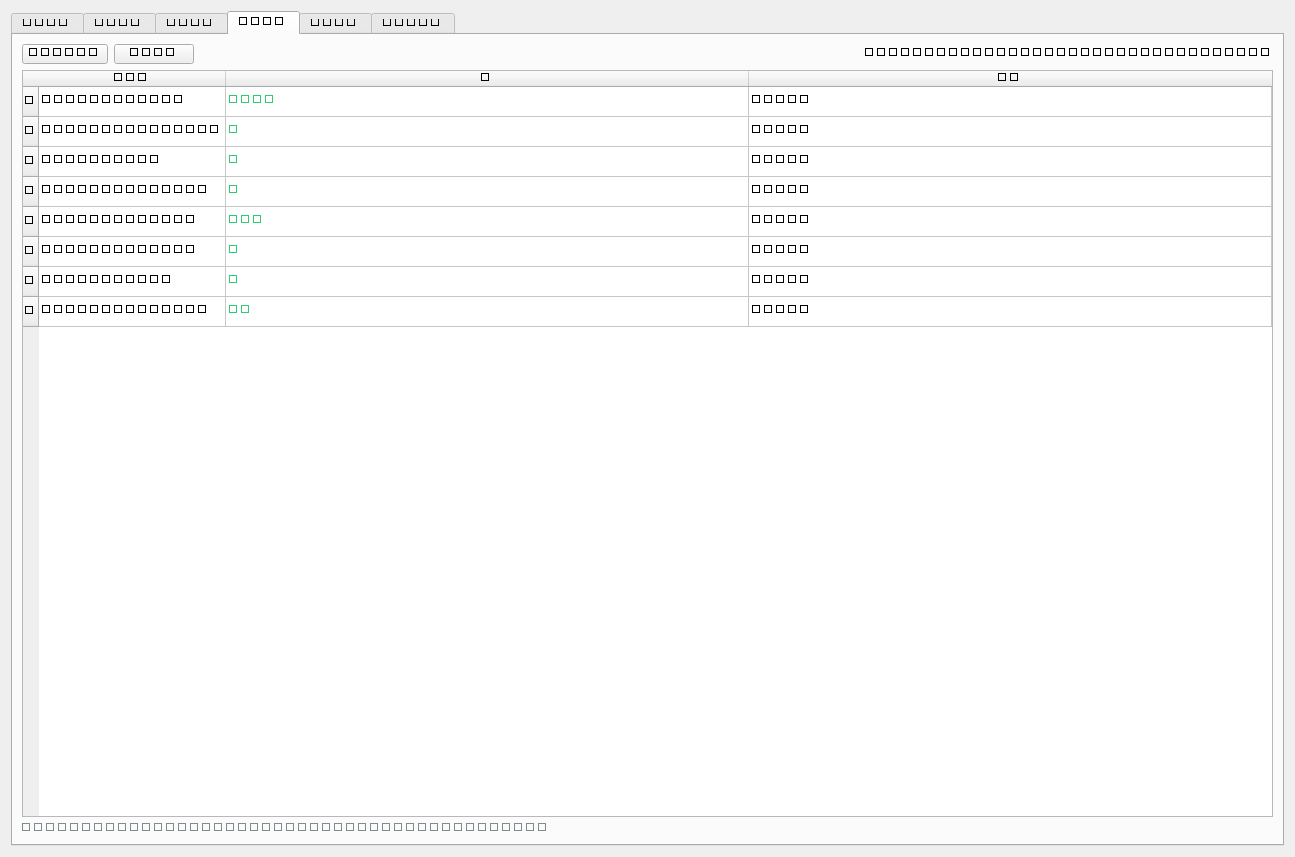
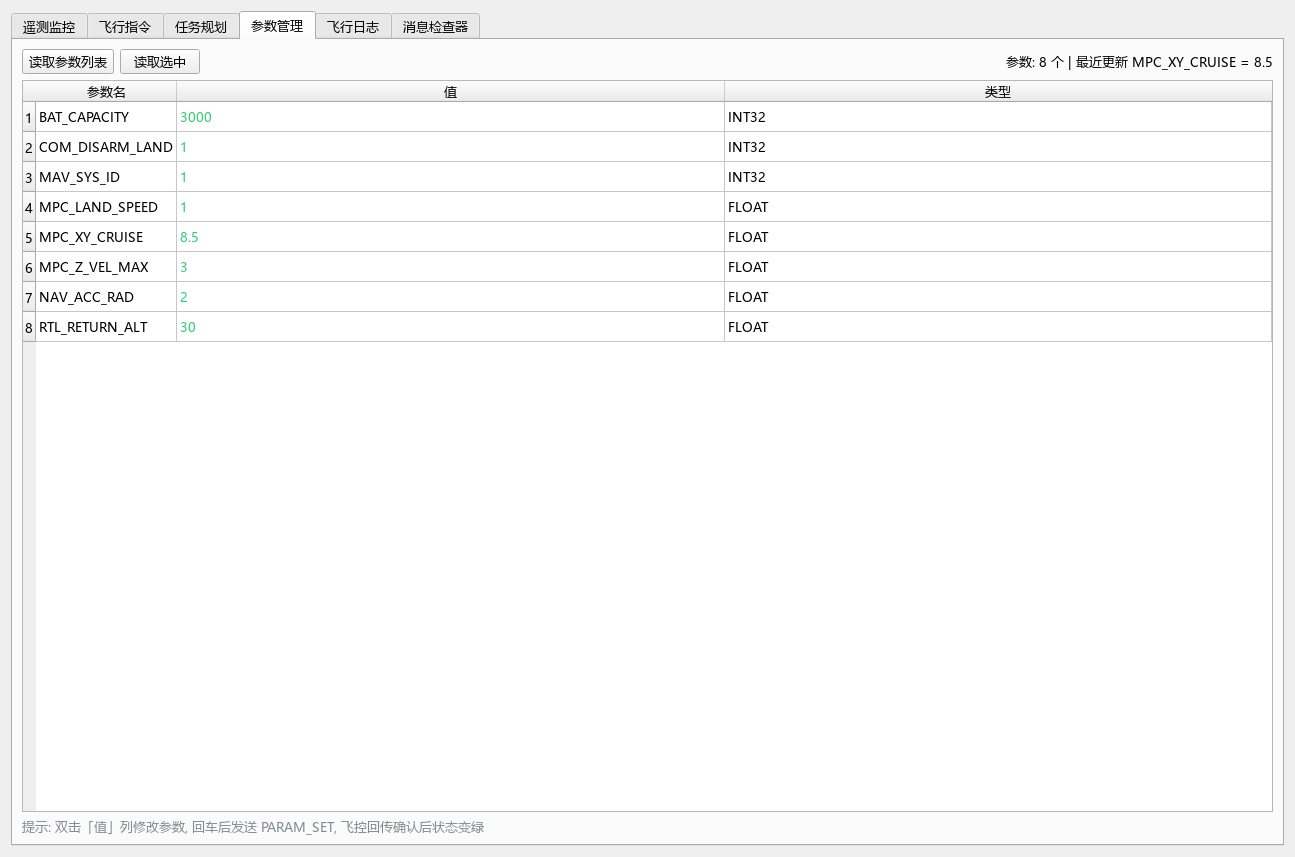
fix(screenshot): 离屏渲染显式加载中文字体(微软雅黑), 修复截图中文乱码/方块
- offscreen 平台无默认字体数据库 -> 中文渲染为方块
- shot_main 加载 C:/Windows/Fonts/msyh.ttc 并设为应用默认字体
- 支持一次运行输出 4 张截图(初始/参数/任务/遥测), 仿真延迟 2s 启动
- 重新生成 docs/screenshot_{main,live,mission,params}.png (文字全部可读)

Changed region(s): [[0.0, 0.0, 0.9884, 0.3944], [0.0, 0.9405, 0.4324, 0.9708]]

diff --git a/tests/shot_main.cpp b/tests/shot_main.cpp
@@ -2,8 +2,11 @@
 // SkyGCS  UI 离屏渲染截图工具 (验证/文档用)
 // 启动主窗口 → 程序化启动内置仿真 (UDP 模式) → 等待遥测 → grab 保存 PNG
 // 运行: build 目录 ./shot_main.exe [输出路径]
+// 注意: offscreen 平台无默认字体数据库, 需显式加载系统中文字体
 // ============================================================================
 #include <QApplication>
+#include <QFont>
+#include <QFontDatabase>
 #include <QPixmap>
 #include <QSplitter>
 #include <QTabWidget>
@@ -24,9 +27,33 @@
 
 using namespace skygcs;
 
+static void loadChineseFont(QApplication& app)
+{
+    // offscreen 平台不加载系统字体 → 中文会渲染为方块, 显式注册
+    const QStringList candidates = {
+        QStringLiteral("C:/Windows/Fonts/msyh.ttc"),   // 微软雅黑
+        QStringLiteral("C:/Windows/Fonts/simhei.ttf"), // 黑体
+        QStringLiteral("C:/Windows/Fonts/simsun.ttc"), // 宋体
+    };
+    QString family;
+    for (const QString& path : candidates) {
+        const int id = QFontDatabase::addApplicationFont(path);
+        if (id >= 0) {
+            family = QFontDatabase::applicationFontFamilies(id).value(0);
+            if (!family.isEmpty())
+                break;
+        }
+    }
+    QFont font(family.isEmpty() ? QStringLiteral("Microsoft YaHei") : family);
+    font.setPixelSize(13);
+    app.setFont(font);
+    std::printf("[font] %s\n", qPrintable(family));
+}
+
 int main(int argc, char* argv[])
 {
     QApplication app(argc, argv);
+    loadChineseFont(app);
 
     auto* endpoint = new MavlinkEndpoint;
     auto* sim = new FlightSim;
@@ -42,7 +69,7 @@ int main(int argc, char* argv[])
         return 1;
     }
     sim->setHome(24.51, 117.65, 30.0);
-    sim->startUdpServer(14550);
+    // (仿真在 2s 后启动, 以便先截"未连接"初始界面)
 
     // 独立窗口组合: 遥测(数值+曲线) / 飞行指令 / 任务规划 / 参数管理 / 飞行日志 / 消息检查器
     QWidget host;
@@ -50,8 +77,10 @@ int main(int argc, char* argv[])
     host.resize(1295, 857);
     auto* tabs = new QTabWidget(&host);
     auto* teleSplit = new QSplitter(Qt::Vertical, tabs);
-    teleSplit->addWidget(new TelemetryPanel(endpoint->vehicle(), teleSplit));
-    teleSplit->addWidget(new TelemetryChart(endpoint->vehicle(), teleSplit));
+    auto* telemetry = new TelemetryPanel(endpoint->vehicle(), teleSplit);
+    auto* teleChart = new TelemetryChart(endpoint->vehicle(), teleSplit);
+    teleSplit->addWidget(telemetry);
+    teleSplit->addWidget(teleChart);
     teleSplit->setStretchFactor(0, 3);
     teleSplit->setStretchFactor(1, 4);
     tabs->addTab(teleSplit, QStringLiteral("遥测监控"));
@@ -69,6 +98,26 @@ int main(int argc, char* argv[])
     layout->addWidget(tabs);
     host.show();
 
+    const QString outMain    = (argc > 4) ? QString::fromLocal8Bit(argv[4])
+                                          : QString();
+    const QString outParam   = (argc > 1) ? QString::fromLocal8Bit(argv[1])
+                                          : QStringLiteral("docs/screenshot_live.png");
+    const QString outMission = (argc > 2) ? QString::fromLocal8Bit(argv[2]) : QString();
+    const QString outLive    = (argc > 3) ? QString::fromLocal8Bit(argv[3]) : QString();
+
+    // 初始界面 (未启动仿真, 飞行器离线)
+    QTimer::singleShot(800, [&]() {
+        if (!outMain.isEmpty()) {
+            const QPixmap pm = host.grab();
+            const bool ok = pm.save(outMain);
+            std::printf("%s %s (%dx%d)\n", ok ? "SAVED" : "FAIL", qPrintable(outMain),
+                        pm.width(), pm.height());
+        }
+    });
+    // 启动仿真 (让遥测/任务/参数有实际数据)
+    QTimer::singleShot(2000, [&]() {
+        sim->startUdpServer(14550);
+    });
     QTimer::singleShot(3000, [&]() {
         // 下发解锁 + 起飞, 让姿态/高度有实际变化
         endpoint->armDisarm(true);
@@ -109,11 +158,9 @@ int main(int argc, char* argv[])
         tabs->setCurrentWidget(params);
     });
     QTimer::singleShot(26000, [&]() {
-        const QString out = (argc > 1) ? QString::fromLocal8Bit(argv[1])
-                                       : QStringLiteral("docs/screenshot_live.png");
         const QPixmap pm = host.grab();
-        const bool ok = pm.save(out);
-        std::printf("%s %s (%dx%d)\n", ok ? "SAVED" : "FAIL", qPrintable(out),
+        const bool ok = pm.save(outParam);
+        std::printf("%s %s (%dx%d)\n", ok ? "SAVED" : "FAIL", qPrintable(outParam),
                     pm.width(), pm.height());
         const VehicleState* v = endpoint->vehicle();
         std::printf("vehicle online=%d armed=%d altRel=%.1f mode=%s cur=%d reached=%d\n",
@@ -122,7 +169,31 @@ int main(int argc, char* argv[])
         float cruise = -1;
         v->paramValue(QStringLiteral("MPC_XY_CRUISE"), cruise);
         std::printf("params=%d MPC_XY_CRUISE=%.2f\n", v->paramCount(), cruise);
-        app.exit(ok ? 0 : 1);
+        // 切换到任务规划页 (展示任务进度)
+        if (!outMission.isEmpty())
+            tabs->setCurrentWidget(mission);
+        else
+            app.exit(ok ? 0 : 1);
+    });
+    QTimer::singleShot(30000, [&]() {
+        if (!outMission.isEmpty()) {
+            const QPixmap pm = host.grab();
+            const bool ok = pm.save(outMission);
+            std::printf("%s %s (%dx%d)\n", ok ? "SAVED" : "FAIL", qPrintable(outMission),
+                        pm.width(), pm.height());
+        }
+        // 切回遥测页
+        if (!outLive.isEmpty())
+            tabs->setCurrentWidget(teleSplit);
+    });
+    QTimer::singleShot(34000, [&]() {
+        if (!outLive.isEmpty()) {
+            const QPixmap pm = host.grab();
+            const bool ok = pm.save(outLive);
+            std::printf("%s %s (%dx%d)\n", ok ? "SAVED" : "FAIL", qPrintable(outLive),
+                        pm.width(), pm.height());
+        }
+        app.exit(0);
     });
     return app.exec();
 }
